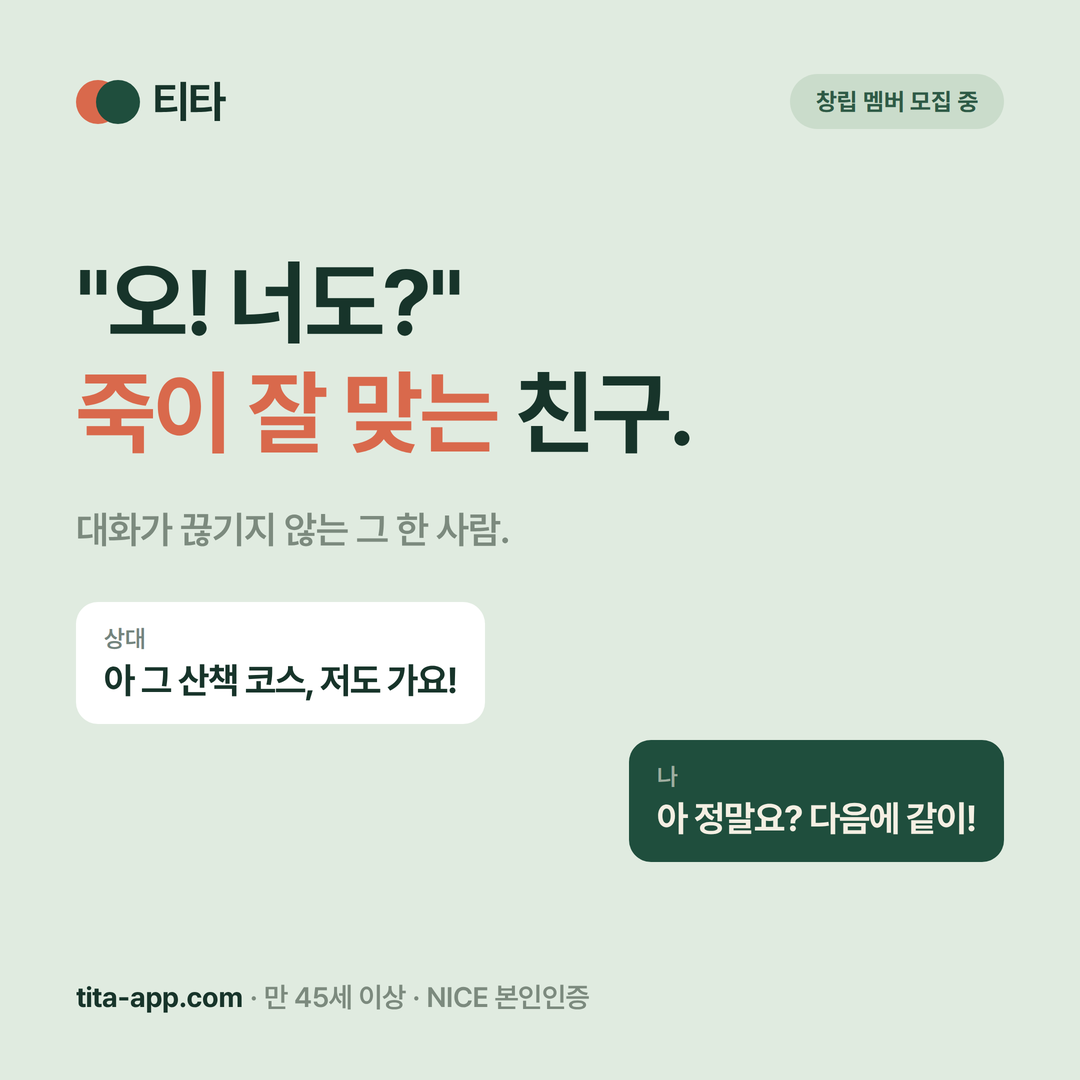
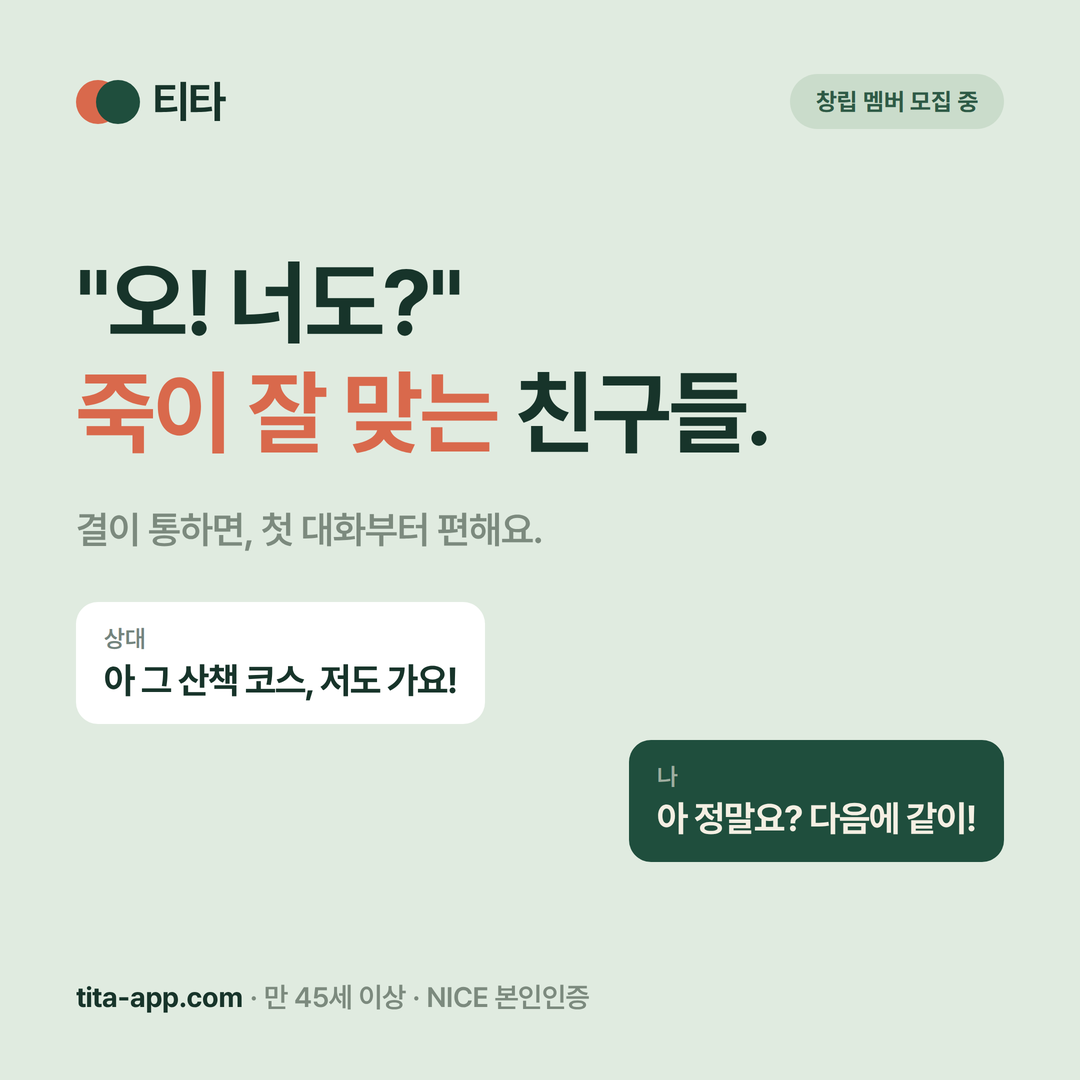
chore(marketing): 광고 카피 수정 — '한 사람'→'친구 몇 명'(1:1 부담 방지) + 안전 훅 직접화
- E 내향/B 티키타카: '결이 통하는 한 사람' → '친구 몇 명/친구들' (3~4명
  결모임 지향, 1:1 부담 회피)
- G 안전: '찻집 지기 헛기침' 폐기 → '누군지 모르는 사람은 아예 못 들어와요'
  (앱에서 안 쓰는 말 제거, 안심을 결과로 직접). 재렌더 3종 교체.

Claude-Session: https://claude.ai/code/session_01WSoXusNVnDMbXP1mzA8LD2

Changed region(s): [[0.0611, 0.4583, 0.4889, 0.5194], [0.6111, 0.3361, 0.7028, 0.4278]]

diff --git a/marketing/ad-content-plan-v2.md b/marketing/ad-content-plan-v2.md
@@ -28,7 +28,7 @@
 
 ### B. 티키타카(대화 케미)  ⭐런치
 - 헤드라인: **"오! 너도?" 죽이 잘 맞는 친구.**
-- 서브: 대화가 끊기지 않는 그 한 사람.
+- 서브: 결이 통하면, 첫 대화부터 편해요.
 - (옵션) 대화 버블: 상대 "아 그 산책 코스 저도 가요!" / 나 "아 정말요? 다음에 같이!"
 - 푸터: "…결이 통하는 친구만 추천드려요"
 
@@ -45,7 +45,7 @@
 
 ### E. 내향 페르소나  ⭐런치 (반응층 = 조용·깊은 결 83%)
 - 헤드라인: **혼자가 편한데, 가끔은 그리워요.**
-- 서브: 왁자지껄한 모임 말고, 결이 통하는 한 사람.
+- 서브: 시끌벅적한 자리 말고, 결이 통하는 친구 몇 명. (1:1 부담 방지 → 복수)
 
 ### F. 까다로움(자존심 리프레임)
 - 헤드라인: **외로워서가 아니라, 까다로워서예요.**
@@ -53,9 +53,9 @@
 - 주의: 기대치 올리는 양날검 → 풀 커지면 투입
 
 ### G. 안전(무섭지 않게)
-- 헤드라인: **이상한 얘기가 나오면, 찻집 지기가 헛기침해요.**
-- 서브: 본인인증 받은 분들만. 불편한 만남은 조용히 걸러드려요.
-- ('사기' 단어 금지 · 성별 언급 금지 — 티타지기 세계관 + '조용히 걸러줌')
+- 헤드라인: **누군지 모르는 사람은, 아예 못 들어와요.**
+- 서브: 본인인증을 받아야 문이 열려요. 불편한 만남은 조용히 걸러드려요.
+- ('사기'·'찻집지기/헛기침'·성별 언급 금지 — 안심을 결과로 직접 전달)
 
 ### H. 티키타카 노동(어색함)
 - 헤드라인: **맞장구도 노동이잖아요.**
